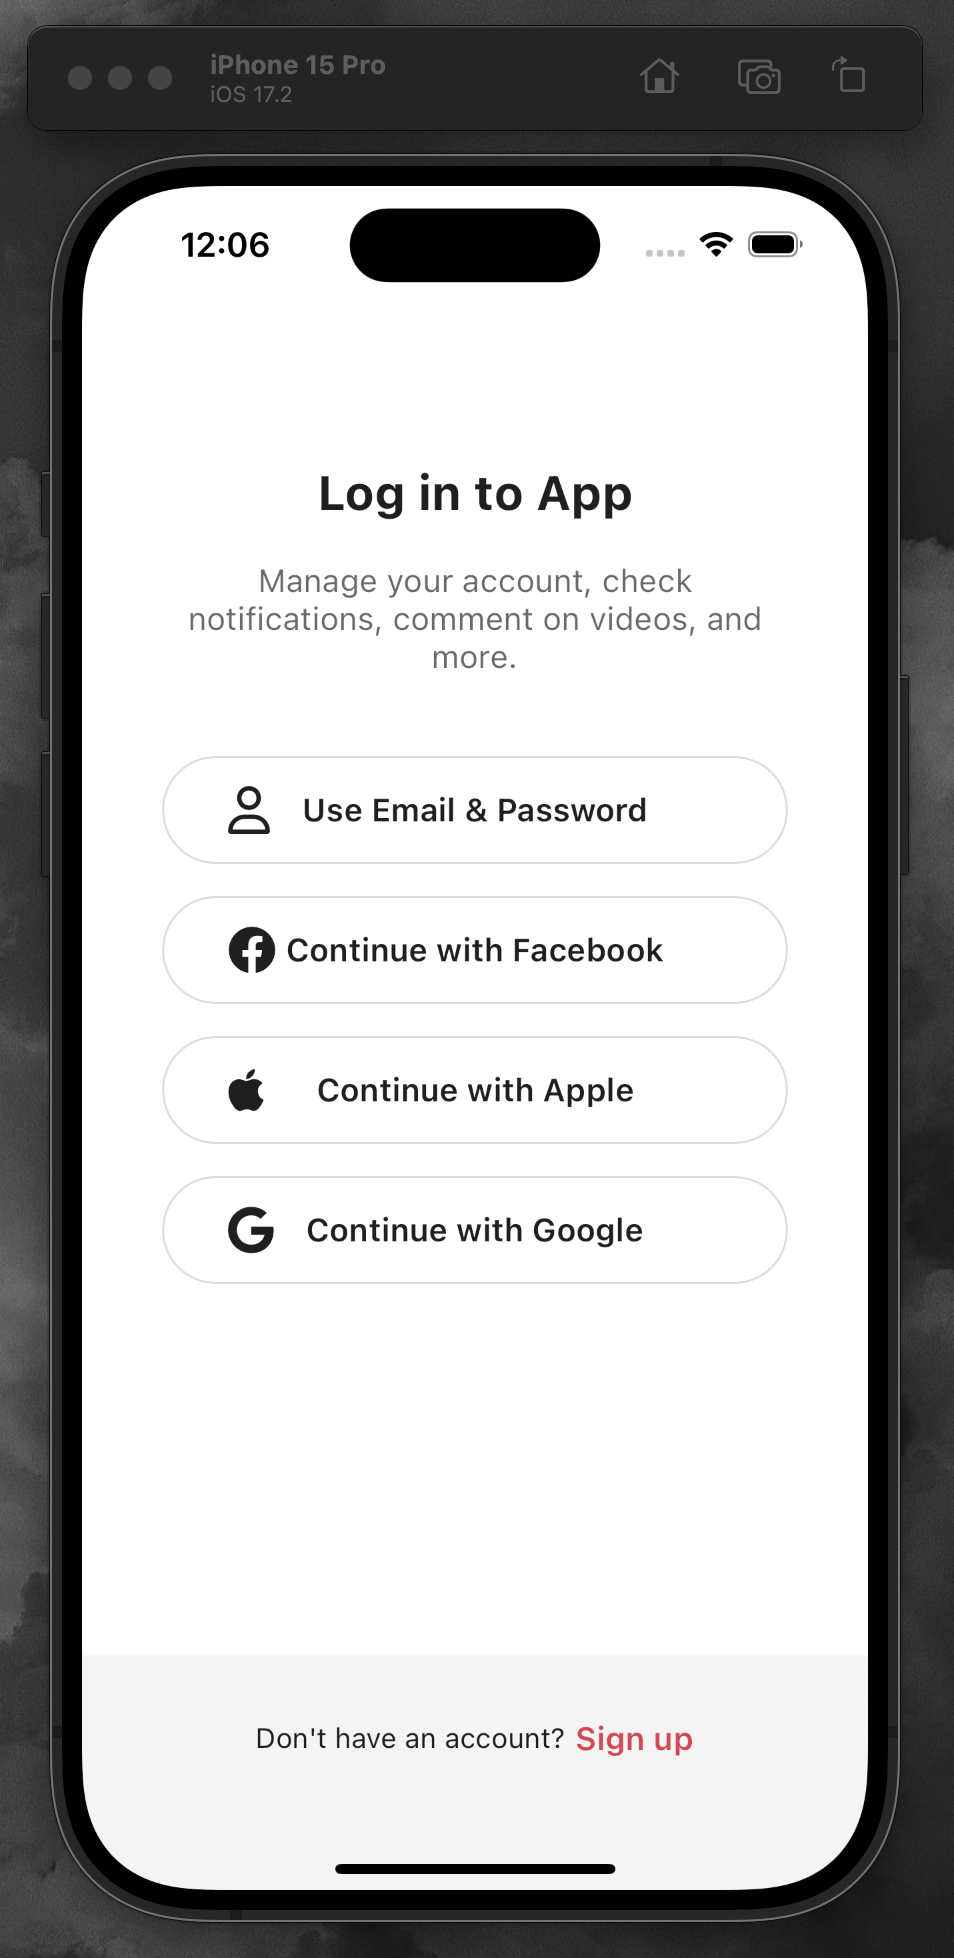
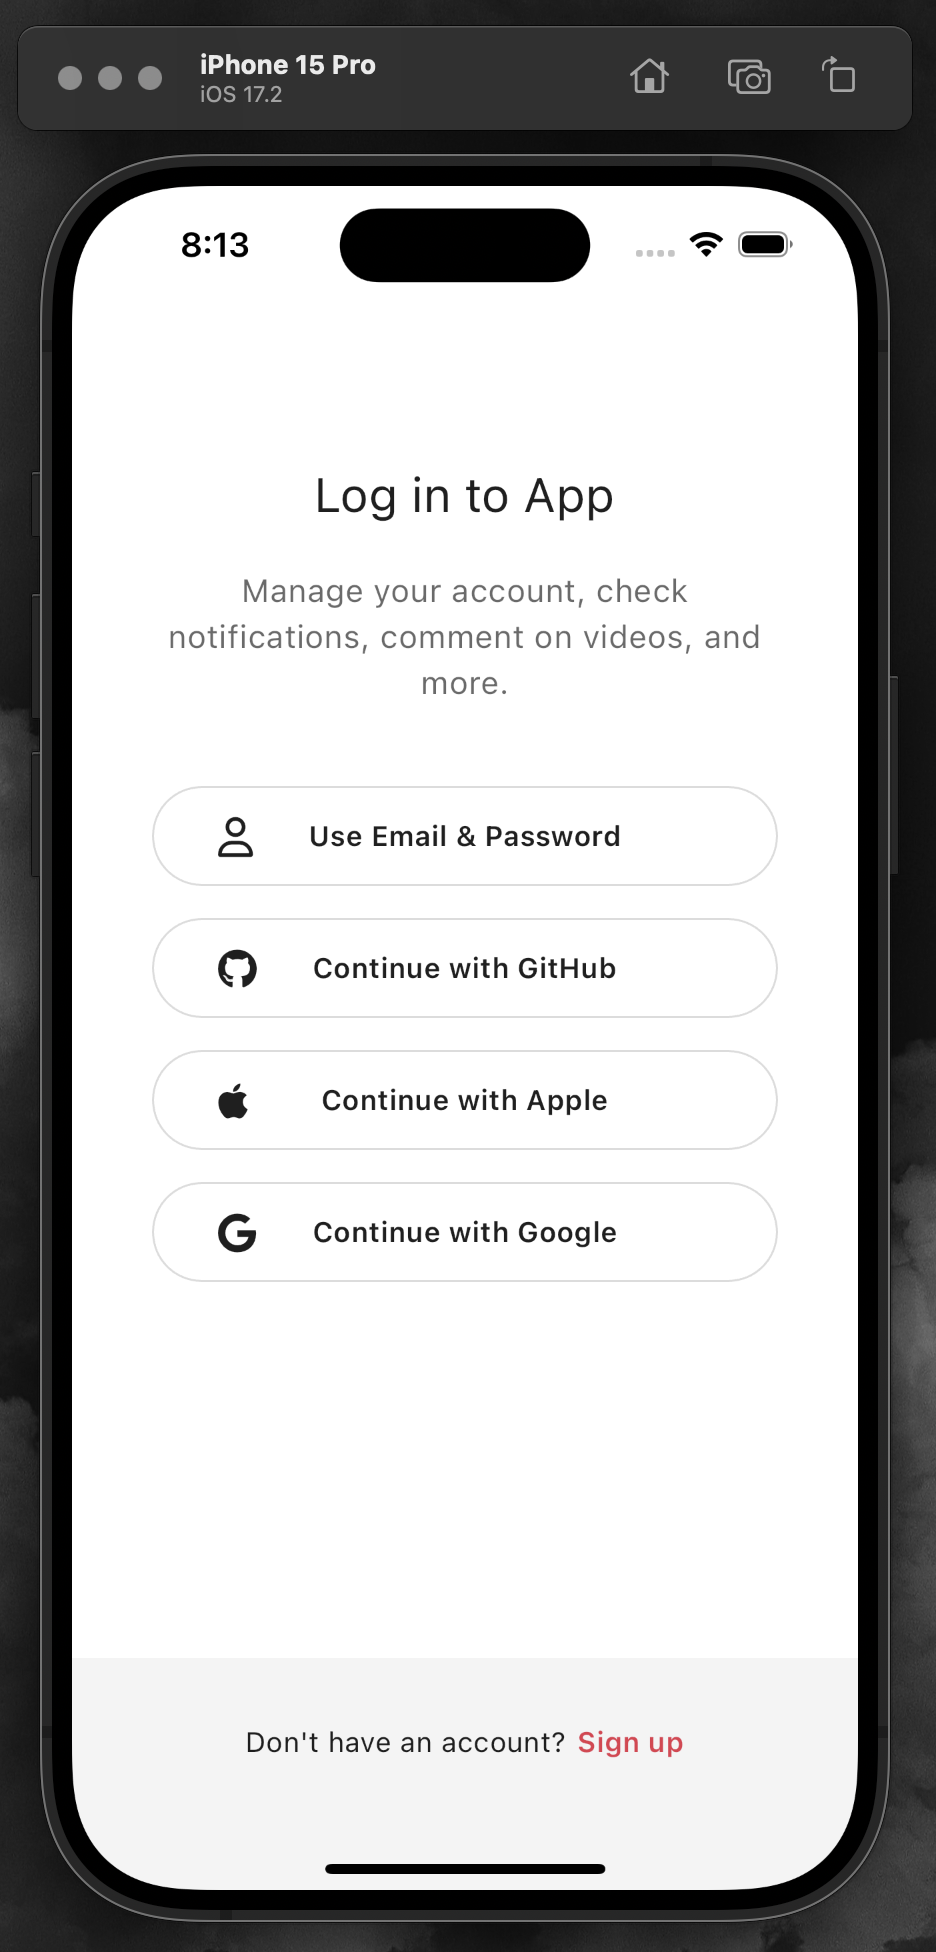
readme MODIFIED

diff --git a/tiktokApp_mock/lib/features/authentication/login_form_screen.dart b/tiktokApp_mock/lib/features/authentication/login_form_screen.dart
@@ -68,6 +68,14 @@ class _LoginFormScreenState extends ConsumerState<LoginFormScreen> {
             child: Column(
               children: [
                 Gaps.v28,
+                const Text(
+                  "\"Please enter your email and password\"",
+                  style: TextStyle(
+                    fontWeight: FontWeight.w500,
+                    fontSize: 16,
+                  ),
+                ),
+                Gaps.v32,
                 TextFormField(
                   autovalidateMode: AutovalidateMode.onUserInteraction,
                   keyboardType: TextInputType.emailAddress,
@@ -101,7 +109,7 @@ class _LoginFormScreenState extends ConsumerState<LoginFormScreen> {
                     }
                   },
                 ),
-                Gaps.v28,
+                Gaps.v40,
                 GestureDetector(
                   onTap: _onSubmitTap,
                   child:

diff --git a/tiktokApp_mock/lib/features/authentication/signup_username_screen.dart b/tiktokApp_mock/lib/features/authentication/signup_username_screen.dart
@@ -1,4 +1,5 @@
 import 'package:TikTok/features/authentication/view_models/signup_view_model.dart';
+import 'package:TikTok/utils.dart';
 import 'package:flutter/material.dart';
 import 'package:TikTok/constants/gaps.dart';
 import 'package:TikTok/constants/sizes.dart';
@@ -76,11 +77,11 @@ class _UsernameScreenState extends ConsumerState<UsernameScreen> {
                 ),
               ),
               Gaps.v10,
-              const Text(
+              Text(
                 'You can always change this later',
                 style: TextStyle(
                   fontSize: Sizes.size16,
-                  color: Colors.black54,
+                  color: isDarkMode(context) ? Colors.white : Colors.black54,
                   fontWeight: FontWeight.w600,
                 ),
               ),

diff --git a/tiktokApp_mock/lib/features/authentication/birthday_screen.dart b/tiktokApp_mock/lib/features/authentication/birthday_screen.dart
@@ -1,4 +1,5 @@
 import 'package:TikTok/features/authentication/view_models/signup_view_model.dart';
+import 'package:TikTok/utils.dart';
 import 'package:flutter/cupertino.dart';
 import 'package:flutter/material.dart';
 import 'package:TikTok/constants/gaps.dart';
@@ -72,11 +73,11 @@ class _BirthdayScreenScreenState extends ConsumerState<BirthdayScreen> {
               ),
             ),
             Gaps.v10,
-            const Text(
+            Text(
               "Your birthday won't be shown publicly",
               style: TextStyle(
                 fontSize: Sizes.size16,
-                color: Colors.black54,
+                color: isDarkMode(context) ? Colors.white : Colors.black54,
                 fontWeight: FontWeight.w600,
               ),
             ),

diff --git a/tiktokApp_mock/lib/common/main_navigation/main_navigation_screen.dart b/tiktokApp_mock/lib/common/main_navigation/main_navigation_screen.dart
@@ -1,5 +1,5 @@
 import 'package:TikTok/features/inbox/inbox_screen.dart';
-import 'package:TikTok/features/users/user_profile_screen.dart';
+import 'package:TikTok/features/users/views/user_profile_screen.dart';
 import 'package:TikTok/features/videos/views/video_recording_screen.dart';
 import 'package:TikTok/features/videos/views/video_timeline_screen.dart';
 import 'package:flutter/material.dart';

diff --git a/tiktokApp_mock/lib/features/authentication/sign_up_sceen.dart b/tiktokApp_mock/lib/features/authentication/sign_up_sceen.dart
@@ -1,5 +1,5 @@
 import 'package:TikTok/features/authentication/login_screen.dart';
-import 'package:TikTok/features/authentication/username_screen.dart';
+import 'package:TikTok/features/authentication/signup_username_screen.dart';
 import 'package:TikTok/features/authentication/view_models/social_auth_view_model.dart';
 
 import 'package:TikTok/generated/l10n.dart';

diff --git a/README.md b/README.md
@@ -1,55 +1,201 @@
 
 # Social App
 
+TikTok을 벤치마킹하며, 그 플랫폼의 핵심 기능들을 재현하며 Flutter 개발에 대한 깊은 이해와 함께 기술적 능숙도의 상승을 목표로 본 프로젝트를 시작하였고, 기술적인 원리를 이해하려고 노력하며, 끊임없는 질문을 통해 개발을 진행했습니다.
 
-## 프로젝트 소개
+현재, UI구현을 마치고, Firebase의 여러 서비스를 통합하여 이메일과 깃허브 계정을 통한 인증 시스템, 사용자 정보 실시간 수정, 영상 업로드 및 자동 썸네일 생성 등의 다양한 동적 기능을 구현하였습니다. 이를 통해 사용자들에게 안정적이고 직관적인 사용 경험을 제공함과 동시에, 서버리스(serverless) 아키텍처의 장점을 활용할 수 있도록 구현했습니다.
 
-이 프로젝트는 틱톡(TikTok) 앱의 주요 기능을 모방하여 만든 클론 애플리케이션의 코드를 담고 있습니다.
-사용자 인터페이스부터 상호작용까지 틱톡의 경험을 최대한 재현하기 위해 노력했습니다.
-
-## 주요 기능
-
-- **홈 피드**: 사용자는 스크롤을 통해 다양한 비디오를 탐색할 수 있습니다.
-
-- **비디오 재생**: 각 비디오는 터치 한 번으로 일시정지/재생 될 수 있습니다.
-
-- **댓글 및 상호작용**: 비디오에 댓글을 달고 좋아요를 남길 수 있습니다.
-
-## 기술적 구현
-
-- **Flutter**: 크로스 플랫폼 애플리케이션을 위해 Flutter 프레임워크를 사용하였습니다.
-
-- **사용자 인터페이스**: 실제 틱톡 앱과 유사한 사용자 경험을 제공하기 위해 세심하게 디자인하였습니다.
-
-- **동적 상호작용**: 사용자의 행동에 따라 UI가 동적으로 반응하도록 구현하였습니다.
+또한, 코드 관리 측면에서는 '관심사 분리(Separation of Concerns)'를 고려하여 MVVM 디자인 패턴을 적용하였고, 이를 통해 각 부분을 독립적으로 관리하고 테스트 하여 유지보수와 확장성을 향상시킬 수 있도록 작성했습니다.
 
 <br>
 
 
-## Login & Sign up screen
+### 기술 스택
+
+### *`Flutter` `Firebase`*
+
+<br>
+<br>
+
+## Login Screen
 
 <p float="left">
   <img src="tiktokApp_mock/assets/images/login_screen1.png" alt="" width="230">
   <img src="tiktokApp_mock/assets/images/login_screen2.png" alt="" width="231">
-  <img src="tiktokApp_mock/assets/images/signup_screen.png" alt="" width="230">
+
 </p>
 
-## Onboarding screen
+*이메일 로그인과 깃허브 로그인이 구현된 상태이며, 정규표현식을 통해 이메일과 패스워드 검증 과정을 적용했습니다.*
+
+<br>
+
+## Sign up Screen
 
 <p float="left">
-  <img src="tiktokApp_mock/assets/images/interest_screen1.png" alt="" width="226">
-  <img src="tiktokApp_mock/assets/images/interest_screen2.png" alt="" width="228">
-  <img src="tiktokApp_mock/assets/images/onboarding_screen.png" alt="" width="230">
-</p>
+  <img src="tiktokApp_mock/assets/images/sign_up_screen.png" alt="" width="230">
+  <img src="tiktokApp_mock/assets/images/sign_up_email_screen.png" alt="" width="232">
+  <img src="tiktokApp_mock/assets/images/birthday_screen.png" alt="" width="234">
+  
+</p> 
 
+*"마찬가지로, 회원가입에서도 유저가 정규표현식을 통해 이메일 형식에 맞추도록 하였습니다."*
 
-## Navigation screen
+<br>
+
+## Onboarding Screen
 
 <p float="left">
-  <img src="tiktokApp_mock/assets/images/main_video_screen.png" alt="" width="230">
-  <img src="tiktokApp_mock/assets/images/video_message_screen.png" alt="" width="235">
-  <img src="tiktokApp_mock/assets/images/main_discover_screen.png" alt="" width="235">
+  <img src="tiktokApp_mock/assets/images/interest_screen.png" alt="" width="226">
+  <img src="tiktokApp_mock/assets/images/onboarding_screen1.png" alt="" width="226">
+  <img src="tiktokApp_mock/assets/images/onboarding_screen2.png" alt="" width="226">
+
 </p>
 
 
+<br>
 
+## Home Screen
+
+<p float="left">
+  <img src="tiktokApp_mock/assets/images/video_timeline_screen.png" alt="" width="235">
+  <img src="tiktokApp_mock/assets/images/video_comments_screen.png" alt="" width="235">
+</p>
+
+
+<br>
+
+## Discover Screen
+
+<p float="left">
+  <img src="tiktokApp_mock/assets/images/discover_screen.png" alt="" width="230">
+</p>
+
+
+<br>
+
+## Inbox Screen
+
+<p float="left">
+  <img src="tiktokApp_mock/assets/images/inbox_screen.png" alt="" width="235">
+  <img src="tiktokApp_mock/assets/images/notification_screen.png" alt="" width="235">
+  <img src="tiktokApp_mock/assets/images/message_screen.png" alt="" width="235">
+</p>
+
+
+<br>
+
+## User Screen
+
+<p float="left">
+  <img src="tiktokApp_mock/assets/images/user_profile_screen.png" alt="" width="234">
+  <img src="tiktokApp_mock/assets/images/user_info_screen.png" alt="" width="235">
+
+</p>
+
+*유저의 프로필 정보는 Firestore database와 연결되어 있으며, 우측 상단에 편집 아이콘을 눌러 정보를 수정하고 'Done'을 누르면 변경된 정보가 각각에 해당하는 `StateProvider`에 저장되고, 이후, 유저 프로필 관련 비즈니스 로직을 처리하는 UserViewModel을 통해 Firestore database에 전달되고 업데이트되며, UI에도 반영되어 표시된다.*
+
+<br>
+
+## Setting Screen
+
+<p float="left">
+  <img src="tiktokApp_mock/assets/images/setting_screen.png" alt="" width="230">
+</p>
+
+*'Mute Video'와 'Auto Play' 모두 영상 재생과 관련되는 비즈니스 로직을 처리하는 PlaybackConfigViewModel의 메소드를 호출하여, 새로운 상태를 관리하는데, 이를 통해 '음소거'와 '자동재생' 기능이 동작합니다. 또한, 'Log out' 버튼으로 인증관련 로직을 처리하는 AuthenticationRepository의 함수를 실행하고, FirebaseAuth의 `signOut()`메소드를 통해 로그아웃 됩니다.*
+
+<br>
+<br>
+<br>
+<br>
+<br>
+<br>
+
+
+# Dark Mode
+
+## Login Screen
+
+<p float="left">
+  <img src="tiktokApp_mock/assets/images/dk_login_screen1.png" alt="" width="230">
+  <img src="tiktokApp_mock/assets/images/dk_login_screen2.png" alt="" width="231">
+
+</p>
+
+
+<br>
+
+## Sign up Screen
+
+<p float="left">
+  <img src="tiktokApp_mock/assets/images/dk_sign_up_screen.png" alt="" width="235">
+  <img src="tiktokApp_mock/assets/images/dk_sign_up_email_screen.png" alt="" width="230">
+  <img src="tiktokApp_mock/assets/images/dk_birthday_screen.png" alt="" width="233">
+  
+</p>
+
+
+<br>
+
+
+## Onboarding Screen
+
+<p float="left">
+  <img src="tiktokApp_mock/assets/images/dk_interest_screen.png" alt="" width="231">
+  <img src="tiktokApp_mock/assets/images/dk_onboarding_screen1.png" alt="" width="230">
+  <img src="tiktokApp_mock/assets/images/dk_onboarding_screen2.png" alt="" width="228">
+
+</p>
+
+
+<br>
+
+## Home Screen
+
+<p float="left">
+  <img src="tiktokApp_mock/assets/images/dk_video_timeline_screen.png" alt="" width="235">
+  <img src="tiktokApp_mock/assets/images/dk_video_comments_screen.png" alt="" width="233">
+</p>
+
+
+<br>
+
+## Discover Screen
+
+<p float="left">
+  <img src="tiktokApp_mock/assets/images/dk_discover_screen.png" alt="" width="230">
+</p>
+
+
+<br>
+
+## Inbox Screen
+
+<p float="left">
+  <img src="tiktokApp_mock/assets/images/dk_inbox_screen.png" alt="" width="235">
+  <img src="tiktokApp_mock/assets/images/dk_notification_screen.png" alt="" width="235">
+  <img src="tiktokApp_mock/assets/images/dk_message_screen.png" alt="" width="235">
+</p>
+
+
+<br>
+
+## User Screen
+
+<p float="left">
+  <img src="tiktokApp_mock/assets/images/dk_user_profile_screen.png" alt="" width="235">
+  <img src="tiktokApp_mock/assets/images/dk_user_info_screen.png" alt="" width="234">
+
+</p>
+
+
+<br>
+
+## Setting Screen
+
+<p float="left">
+  <img src="tiktokApp_mock/assets/images/dk_setting_screen.png" alt="" width="230">
+</p>
+
+
+<br>
